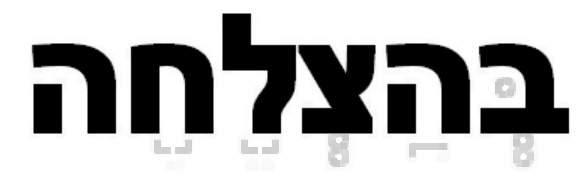
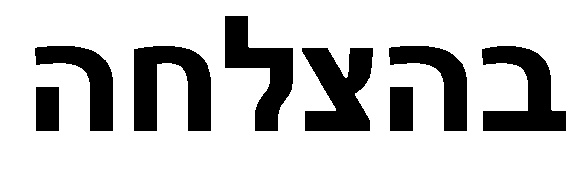
...

diff --git a/Assignment3/main.py b/Assignment3/main.py
@@ -1,11 +1,6 @@
+import sys
 import cv2
 import numpy as np
-
-
-
-
-imgPath = 'Example0.jpg'
-# img = cv2.imread(imgPath, 0)
 
 
 
@@ -57,18 +52,25 @@ def removePunctuation(imgPath: str, altitude: str):
             if w<max_w*THRESHOLD and h<max_h*THRESHOLD:
                 cv2.drawContours(img, [cnt], -1, 255, thickness=-1)
     
-    kerSize = (7,7)
-    kernel = cv2.getStructuringElement(cv2.MORPH_RECT,kerSize)
-    opening = cv2.morphologyEx(img, cv2.MORPH_OPEN,kernel)           
+    # convert to binary. Inverted, so you get white symbols on black background
+    _, thres = cv2.threshold(img, 200, 255, cv2.THRESH_BINARY_INV)
     
-    cv2.imshow('res',opening)
+    kerSize = (3,3)
+    kernel = cv2.getStructuringElement(cv2.MORPH_RECT,kerSize)
+    erosed = cv2.morphologyEx(thres, cv2.MORPH_ERODE, kernel)
+    dialated = cv2.morphologyEx(erosed, cv2.MORPH_DILATE, kernel)
+    result = cv2.bitwise_not(dialated)           
+    
+    cv2.imshow('res',result)
     cv2.waitKey(0)
     cv2.destroyAllWindows()
     
-    cv2.imwrite('result.jpg', opening)
+    cv2.imwrite('result.jpg', result)
     # return img
     
-    
-removePunctuation('Example2.jpg','area')
+
+imgPath = sys.argv[1]
+
+removePunctuation(imgPath,'area')
 # cv2.imwrite('Result.jpg', res)
 
